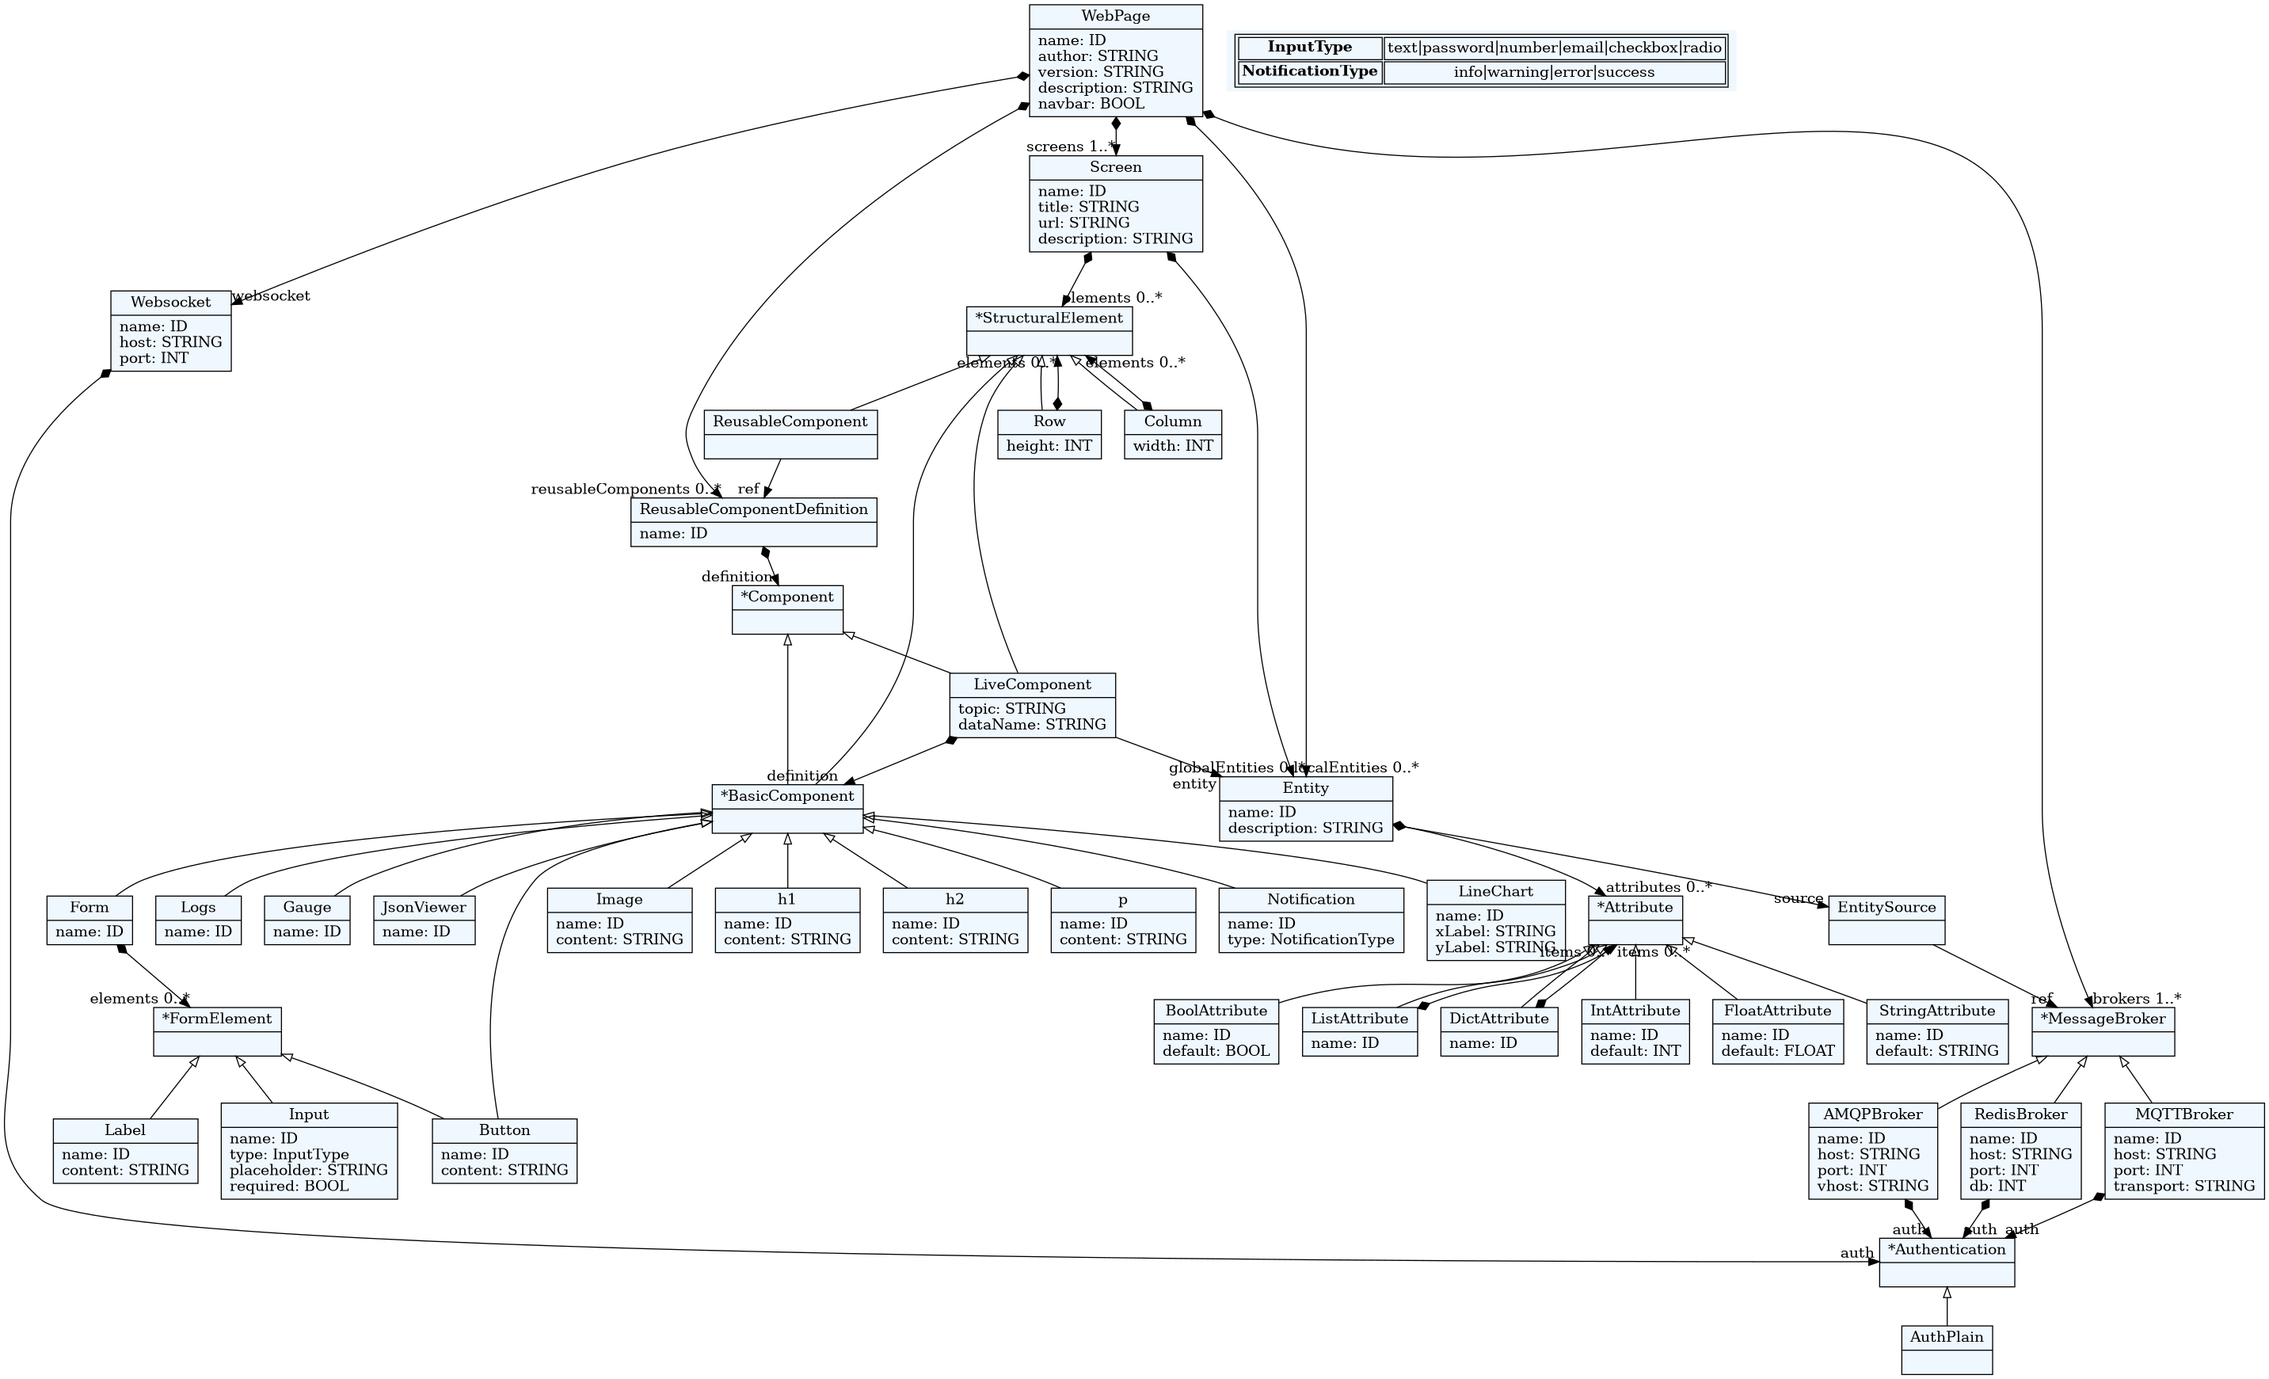
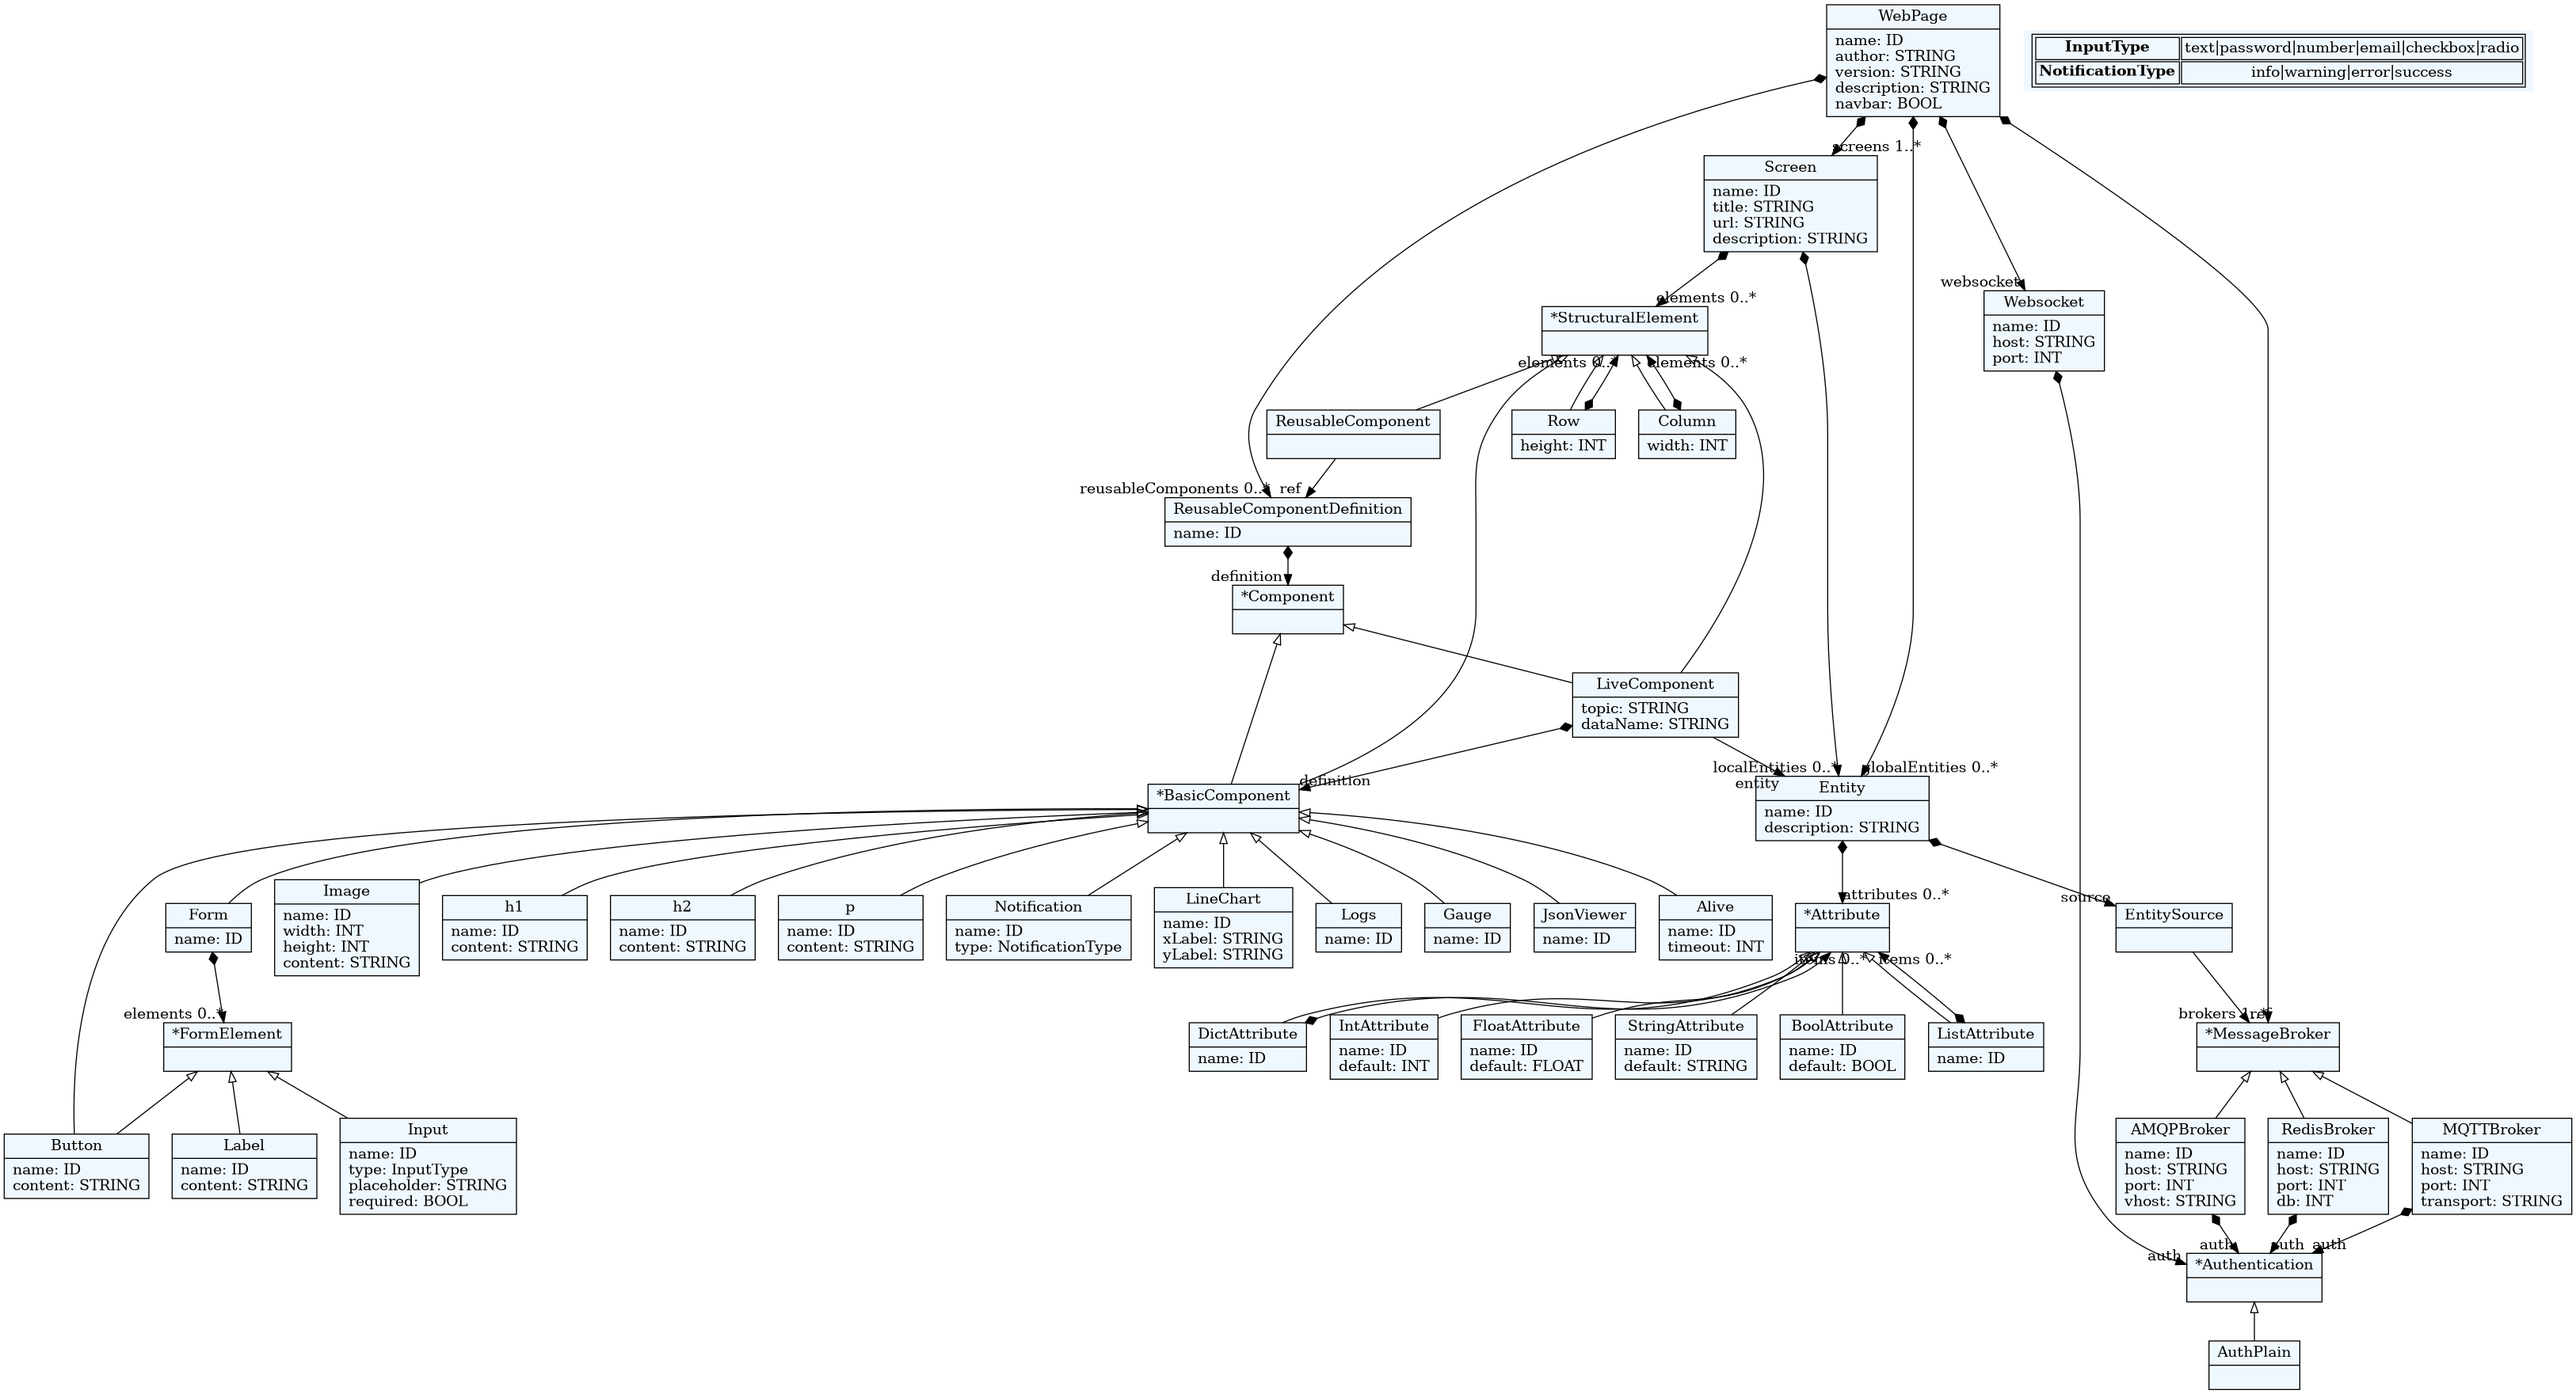
Added alive component

diff --git a/web_dsl/generate.py b/web_dsl/generate.py
@@ -31,6 +31,7 @@ custom_line_chart_template = frontend_env.get_template(
     "components/line_chart_template.jinja"
 )
 logs_template = frontend_env.get_template("components/logs_template.jinja")
+alive_component_template = frontend_env.get_template("components/alive_template.jinja")
 
 config_template = backend_env.get_template("config_template.jinja")
 dockerfile_template = backend_env.get_template("dockerfile_template.jinja")
@@ -136,6 +137,19 @@ def generate(model_path, gen_path):
                     )
                 )
             print(f"Generated: {logs_output_file}")
+
+        # AliveComponent
+        if component.definition.__class__.__name__ == "Alive":
+            alive_component_output_file = os.path.join(components_dir, "Alive.jsx")
+            with open(alive_component_output_file, "w", encoding="utf-8") as f:
+                f.write(
+                    alive_component_template.render(
+                        element=component,
+                        alive=component.definition,
+                        entity=component.entity,
+                    )
+                )
+            print(f"Generated: {alive_component_output_file}")
 
     # ========= Generate backend files============
 
